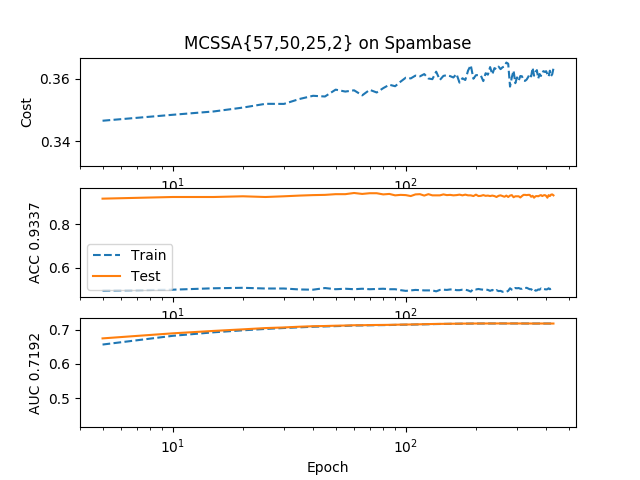
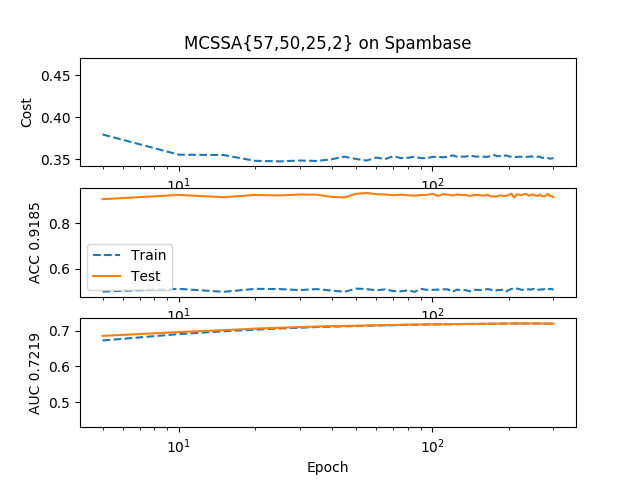
update result

diff --git a/expt.py b/expt.py
@@ -139,15 +139,15 @@ def run_experiment(model_names, dataset_name, dataset, **args):
                     g_mu, g_var = tf.nn.moments(f, axes=[2])
                     g_mu = tf.expand_dims(tf.reduce_mean(g_mu, 0), 1)
                     g_var = tf.expand_dims(tf.reduce_mean(g_var, 0), 1)
-                    p_pred = (y_pred-g_mu)/g_var**0.5
-                    p_pred = tf.contrib.distributions.Normal(0., 1.).cdf(y_pred)
+                    y_pred = (y_pred-g_mu)/g_var**0.5
+                    y_pred = tf.contrib.distributions.Normal(0., 1.).cdf(y_pred)
             if(model_name == "DNN"):
-                # if(task == "regression"):
-                cost = tf.losses.mean_squared_error(y_pred, y)
-                # if(task == "classification"):
-                #     cost = tf.reduce_mean(
-                #         tf.nn.softmax_cross_entropy_with_logits(
-                #             logits=y_pred, labels=y))
+                if(task == "regression"):
+                    cost = tf.losses.mean_squared_error(y_pred, y)
+                if(task == "classification"):
+                    cost = tf.reduce_mean(
+                        tf.nn.softmax_cross_entropy_with_logits(
+                            logits=y_pred, labels=y))
             elif('MC' in model_name):
                 cost = tf.losses.mean_squared_error(y_pred, y)
             else:
@@ -191,7 +191,7 @@ def run_experiment(model_names, dataset_name, dataset, **args):
                 AUC = 0.
                 for p in range(P):
                     AUC += tf.metrics.auc(
-                        labels=y[:, p], predictions=p_pred[:, p])[1]
+                        labels=y[:, p], predictions=y_pred[:, p])[1]
                 LL = AUC/P
                 y_pred = tf.argmax(y_pred, 1)
                 sparse_y = tf.argmax(y, 1)
@@ -378,7 +378,7 @@ def run_experiment(model_names, dataset_name, dataset, **args):
             tm_std = np.std(eval_tms[model_name])
             ll_mu = np.mean(eval_lls[model_name])
             ll_std = np.std(eval_lls[model_name])
-            tm_name = 'RMSE' if task == "regression" else 'ERRT'
+            tm_name = 'RMSE' if task == "regression" else 'ACC'
             ll_name = 'NLPD' if task == "regression" else 'AUC'
             res_cols = [tm_name+' (mean)', tm_name+' (1.96*std)', tm_name,
                 ll_name+' (mean)', ll_name+' (1.96*std)', ll_name]

diff --git a/models/MCSSA.py b/models/MCSSA.py
@@ -31,17 +31,24 @@ def get_w_names(drop_rate, net_sizes):
 def p_Y_Xw(observed, X, drop_rate, n_basis, net_sizes, n_samples, task):
     with zs.BayesianNet(observed=observed) as model:
         f = tf.expand_dims(tf.tile(tf.expand_dims(X, 0), [n_samples, 1, 1]), 2)
+        KL_w = 0
         for i in range(len(net_sizes)-1):
             f = tf.layers.dense(f, net_sizes[i+1])
-            if(i < len(net_sizes)-2):
+            if(i == len(net_sizes)-3):
                 omega_mean = tf.get_variable('omega_mean'+str(i),
                     shape=[1, 1, net_sizes[i+1], n_basis],
                     initializer=tf.random_normal_initializer())
+                omega_logstd = tf.get_variable('omega_logstd'+str(i),
+                    shape=[1, 1, net_sizes[i+1], n_basis],
+                    initializer=tf.constant_initializer(0.))
+                omega_std = tf.exp(omega_logstd)
                 omega = omega_mean+tf.random_normal([
-                    n_samples, 1, net_sizes[i+1], n_basis])
+                    n_samples, 1, net_sizes[i+1], n_basis])*omega_std
                 omega = tf.tile(omega, [1, tf.shape(X)[0], 1, 1])
                 f = tf.matmul(f, omega)/tf.sqrt(net_sizes[i+1]*1.)
                 f = tf.concat([tf.cos(f), tf.sin(f)], 3)/tf.sqrt(n_basis*1.)
+                KL_w += tf.reduce_mean(
+                    omega_std**2+omega_mean**2-2*omega_logstd-1)/2.
         f = tf.squeeze(f, [2])
         if(task == "regression"):
             y_logstd = tf.get_variable('y_logstd', shape=[],
@@ -49,4 +56,4 @@ def p_Y_Xw(observed, X, drop_rate, n_basis, net_sizes, n_samples, task):
             y = zs.Normal('y', f, logstd=y_logstd, group_ndims=1)
         elif(task == "classification"):
             y = zs.OnehotCategorical('y', f)
-    return model, f, None
+    return model, f, KL_w

diff --git a/uci-expts/classification/spambase/training.py b/uci-expts/classification/spambase/training.py
@@ -83,7 +83,7 @@ if __name__ == '__main__':
         'task': "classification",
         'save': False,
         'plot': True,
-        'n_basis': 50,
+        'n_basis': 100,
         'drop_rate': 0.15,
         'train_samples': 10,
         'test_samples': 100,
